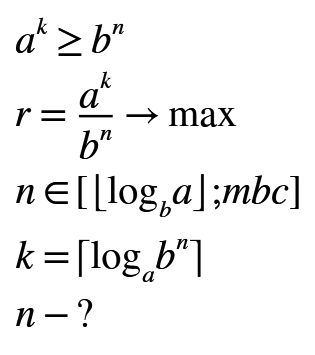
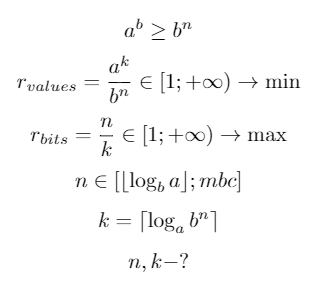
Added new Formula.tex and Diagram.png.

diff --git a/Formula.tex b/Formula.tex
@@ -1,0 +1,12 @@
+\documentclass{minimal}
+
+\begin{document}
+
+$$a^b \geq b^n$$
+$$r_{values} = \frac{a^k}{b^n} \in [1; +\infty) \rightarrow \min$$
+$$r_{bits} = \frac{n}{k} \in [1; +\infty) \rightarrow \max$$
+$$n \in [\lfloor \log_b a \rfloor; mbc]$$
+$$k = \lceil \log_a b^n \rceil$$
+$$n, k - ?$$
+
+\end{document}
